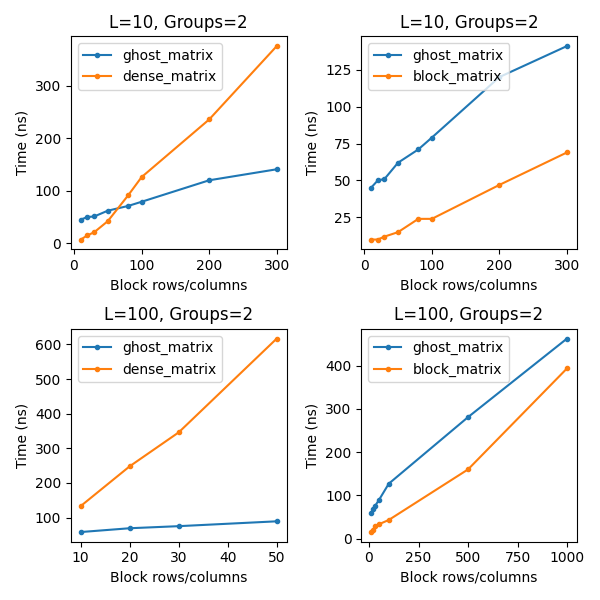
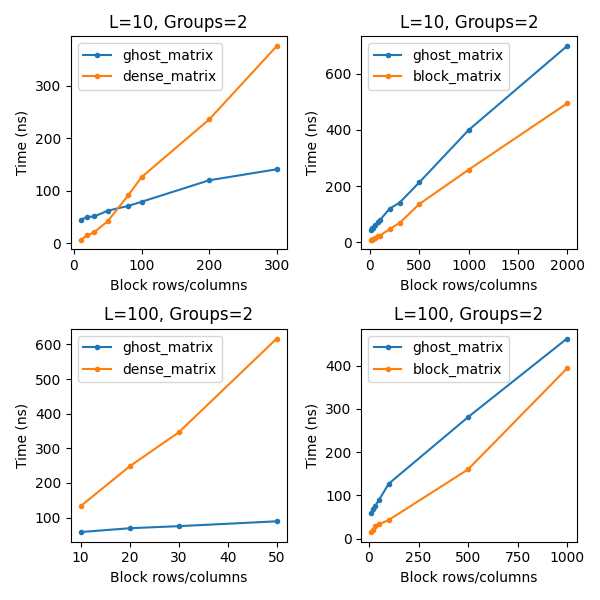
Add some comments

diff --git a/ghostbasil/benchmark/ghost_matrix_col_dot_bench.cpp b/ghostbasil/benchmark/ghost_matrix_col_dot_bench.cpp
@@ -92,6 +92,9 @@ BENCHMARK(BM_ghost_matrix_col_dot)
     -> Args({0, 10, 100, 2})
     -> Args({0, 10, 200, 2})
     -> Args({0, 10, 300, 2})
+    -> Args({0, 10, 500, 2})
+    -> Args({0, 10, 1000, 2})
+    -> Args({0, 10, 2000, 2})
 
     // L large (many blocks)
     -> Args({9, 100, 10, 2})
@@ -190,6 +193,9 @@ BENCHMARK(BM_block_matrix_col_dot)
     -> Args({0, 10, 100, 2})
     -> Args({0, 10, 200, 2})
     -> Args({0, 10, 300, 2})
+    -> Args({0, 10, 500, 2})
+    -> Args({0, 10, 1000, 2})
+    -> Args({0, 10, 2000, 2})
 
     // L large (many blocks)
     -> Args({9, 100, 10, 2})

diff --git a/docs/benchmark/ghost_matrix_col_dot_bench/analyze.py b/docs/benchmark/ghost_matrix_col_dot_bench/analyze.py
@@ -30,6 +30,10 @@ block_times = np.array([
     10, 10, 12, 15, 24, 24, 47, 69
 ])
 plot_test(ax[0,0], L, n_groups, p, ghost_times, naive_times, "ghost_matrix", "dense_matrix")
+
+p = np.concatenate([p, np.array([500, 1000, 2000])])
+ghost_times = np.concatenate([ghost_times, np.array([213, 399, 698])])
+block_times = np.concatenate([block_times, np.array([136, 258, 494])])
 plot_test(ax[0,1], L, n_groups, p, ghost_times, block_times, "ghost_matrix", "block_matrix")
 
 # Test 2

diff --git a/ghostbasil/include/ghostbasil/lasso.hpp b/ghostbasil/include/ghostbasil/lasso.hpp
@@ -151,6 +151,9 @@ void fit_lasso_active(
     while (1) {
         ++n_cds;
         auto dlx = 0.0;
+        // TODO: change to loop over inner/value of beta
+        // TODO: save vector of A diagonal along strong variables.
+        // TODO: How to remove complexity of A.coeff(j,k)?
         for (size_t l = 0; l < active_set.size(); ++l) {
             auto kk = active_set[l]; // index to strong set
             auto k = strong_set[kk]; // actual feature
